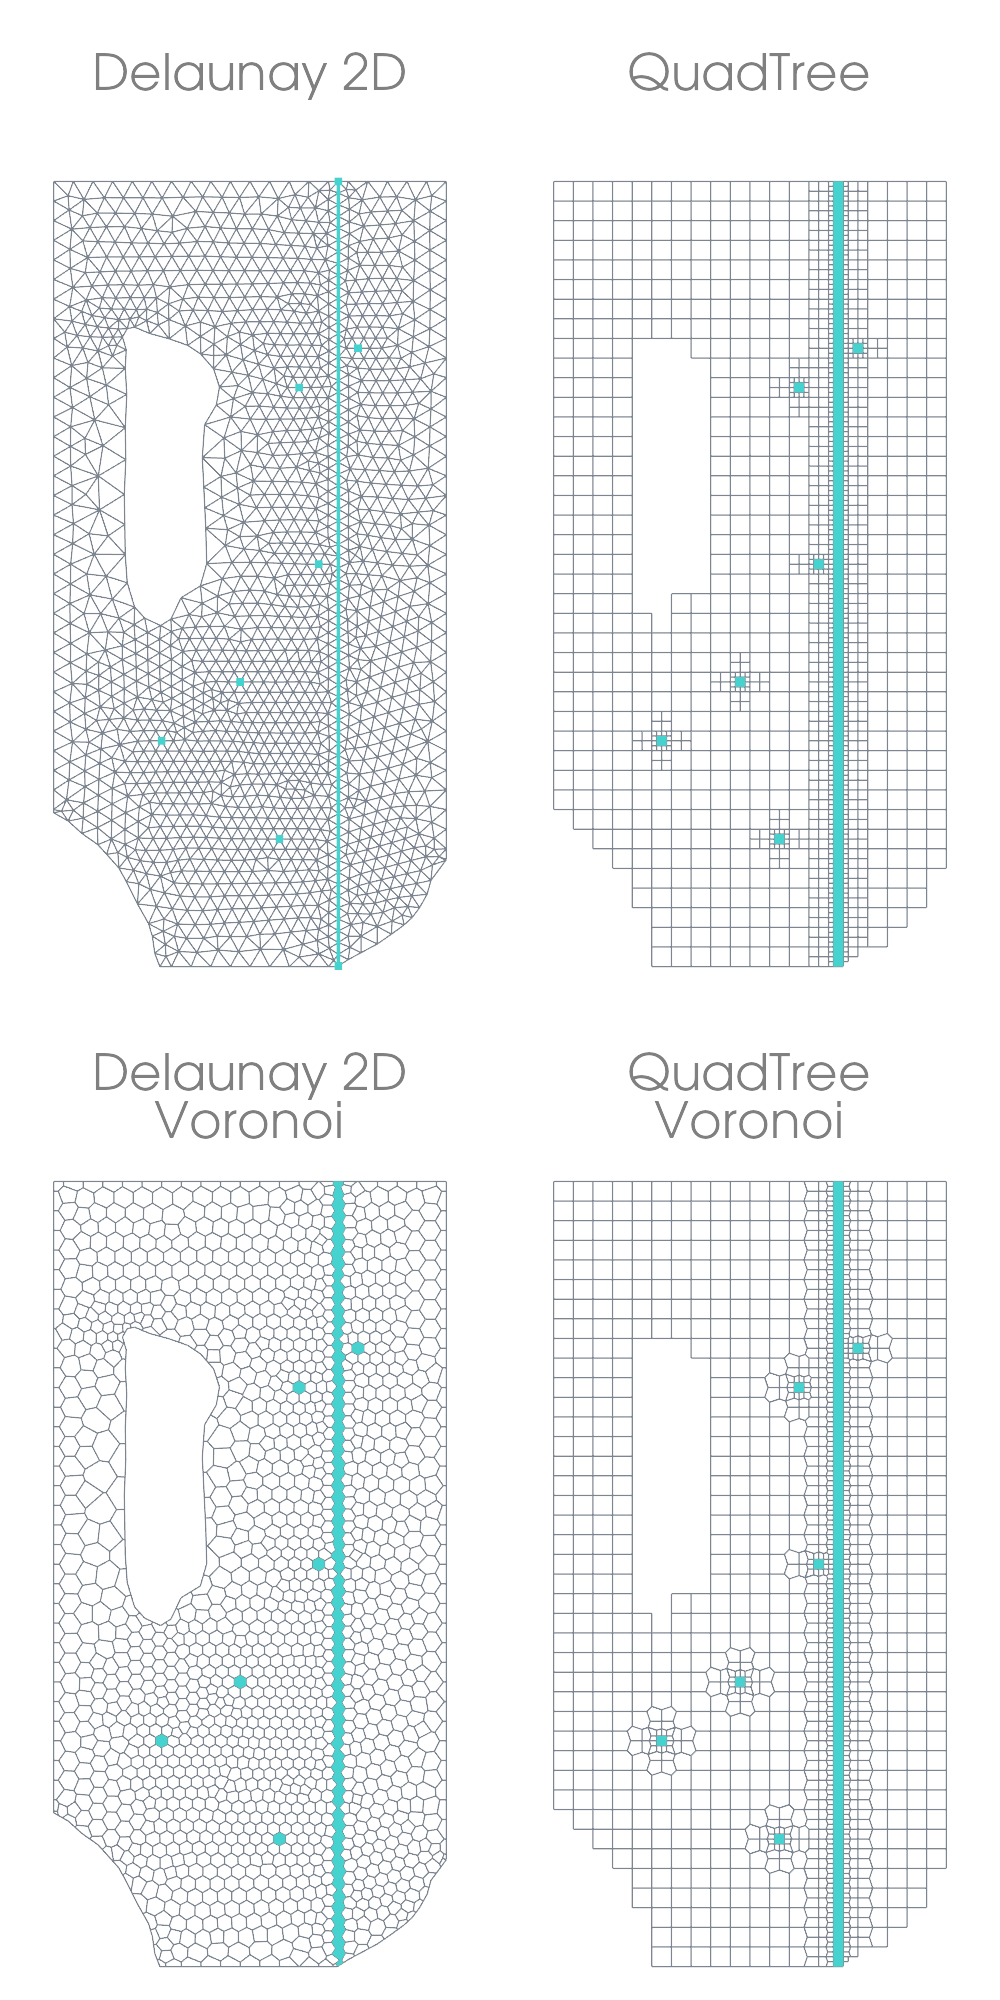
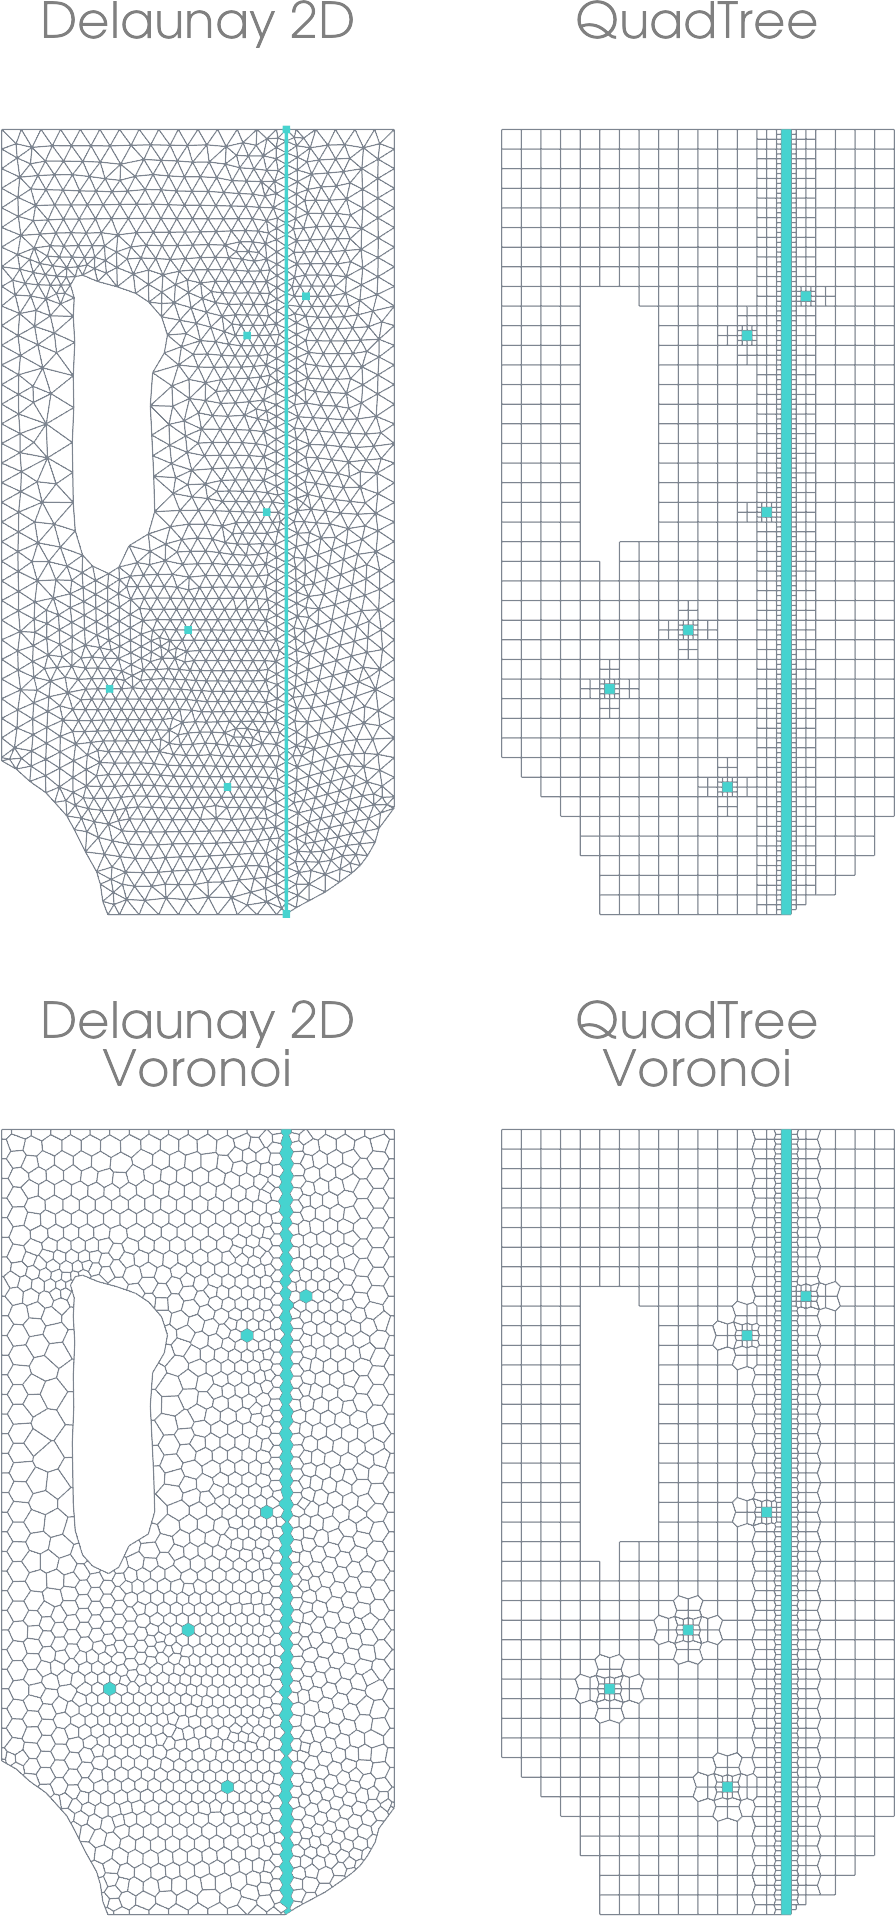
Update README (#62)

diff --git a/.github/generate_readme_figures.py b/.github/generate_readme_figures.py
@@ -1,7 +1,22 @@
 import numpy as np
 import pyvista as pv
+from PIL import Image
 
 import pvgridder as pvg
+
+
+def save_plot(filename, plotter):
+    img = plotter.screenshot(transparent_background=True, return_img=True)
+    alpha = img[..., 3]
+    rows, cols = np.where(alpha > 0)
+
+    if rows.size > 0 and cols.size > 0:
+        img = img[
+            rows.min() : rows.max() + 1,
+            cols.min() : cols.max() + 1,
+        ]
+
+    Image.fromarray(img).save(filename)
 
 
 # Example 1: anticline
@@ -29,7 +44,7 @@ p.camera_position = [
     (0.0, 0.0, 1.0),
 ]
 p.add_axes()  # type: ignore
-p.screenshot("anticline.png", transparent_background=True, return_img=False)
+save_plot("anticline.png", p)
 
 # Example 2: nightmare fuel
 smile_radius = 0.64
@@ -56,7 +71,7 @@ p.add_mesh(
 )
 p.add_axes()  # type: ignore
 p.view_xy()  # type: ignore
-p.screenshot("nightmare_fuel.png", transparent_background=True, return_img=False)
+save_plot("nightmare_fuel.png", p)
 
 # # Example 3: conformal QuadTree
 # bmesh = pvg.Rectangle(5000.0, 10000.0, 20, 40)
@@ -98,7 +113,7 @@ p.screenshot("nightmare_fuel.png", transparent_background=True, return_img=False
 # p.view_xy()  # type: ignore
 # p.camera.parallel_projection = True
 # p.camera.parallel_scale = 6400.0
-# p.screenshot("quadtree.png", transparent_background=True, return_img=False)
+# save_plot("quadtree.png", p)
 # p.close()
 
 # Example 3: Delaunay and QuadTree mesh
@@ -175,7 +190,7 @@ p.camera_position = [
     (2500.0000000000005, 5942.374795407822, 0.0),
     (0.0, 1.0, 0.0),
 ]
-p.screenshot("freyberg.png", transparent_background=True, return_img=False)
+save_plot("freyberg.png", p)
 
 # Example 4: topographic terrain
 terrain = pv.examples.download_crater_topo().extract_subset(
@@ -211,4 +226,4 @@ p.camera_position = [
     (0.0, 0.0, 1.0),
 ]
 p.add_axes()  # type: ignore
-p.screenshot("topographic_terrain.png", transparent_background=True, return_img=False)
+save_plot("topographic_terrain.png", p)

diff --git a/README.md b/README.md
@@ -14,7 +14,7 @@ Structured and unstructured mesh generation using PyVista for the Finite-Element
 
 ## Features
 
-- **Pre-Meshed Geometric Primitives**: Create basic geometric objects with pre-configured structured meshes, using structured grids whenever possible.
+- **Pre-Meshed Geometric Primitives**: Create basic geometric objects with pre-configured meshes, using structured grids whenever possible.
 - **Line/Polyline Extrusion**: Extrude lines or polylines into 2D structured quadrilateral grids.
 - **Surface Extrusion**: Extrude surface meshes into 3D volumetric meshes while preserving cell types.
 - **1.5D/2.5D Mesh Creation**: Stack polylines or surfaces to build layered meshes, ideal for geological modeling and similar applications.
@@ -66,7 +66,9 @@ mesh = (
 mesh.plot(show_edges=True, scalars=pvg.get_cell_group(mesh))
 ```
 
-![anticline](https://github.com/INTERA-Inc/pyvista-gridder/blob/main/.github/anticline.png?raw=true)
+<p align="center">
+  <img src="https://github.com/INTERA-Inc/pyvista-gridder/blob/main/.github/anticline.png?raw=true" alt="anticline" width="80%">
+</p>
 
 ### 2D Voronoi Mesh
 
@@ -90,7 +92,9 @@ mesh = (
 mesh.plot(show_edges=True, scalars=pvg.get_cell_group(mesh))
 ```
 
-![nightmare-fuel](https://github.com/INTERA-Inc/pyvista-gridder/blob/main/.github/nightmare_fuel.png?raw=true)
+<p align="center">
+  <img src="https://github.com/INTERA-Inc/pyvista-gridder/blob/main/.github/nightmare_fuel.png?raw=true" alt="nightmare-fuel" width="80%">
+</p>
 
 ### Freyberg Model
 
@@ -117,7 +121,9 @@ tri_voro = pvg.VoronoiMesh2D(tri, preference="point").generate_mesh()
 quad_voro = pvg.VoronoiMesh2D(quad, preference="cell").generate_mesh()
 ```
 
-![freyberg](https://github.com/INTERA-Inc/pyvista-gridder/blob/main/.github/freyberg.png?raw=true)
+<p align="center">
+  <img src="https://github.com/INTERA-Inc/pyvista-gridder/blob/main/.github/freyberg.png?raw=true" alt="freyberg" width="60%">
+</p>
 
 ### 2.5D Geological Model
 
@@ -144,7 +150,9 @@ mesh = (
 mesh.plot(show_edges=True, scalars=pvg.get_cell_group(mesh))
 ```
 
-![topographic-terrain](https://github.com/INTERA-Inc/pyvista-gridder/blob/main/.github/topographic_terrain.png?raw=true)
+<p align="center">
+  <img src="https://github.com/INTERA-Inc/pyvista-gridder/blob/main/.github/topographic_terrain.png?raw=true" alt="topographic-terrain" width="80%">
+</p>
 
 ## Acknowledgements
 
